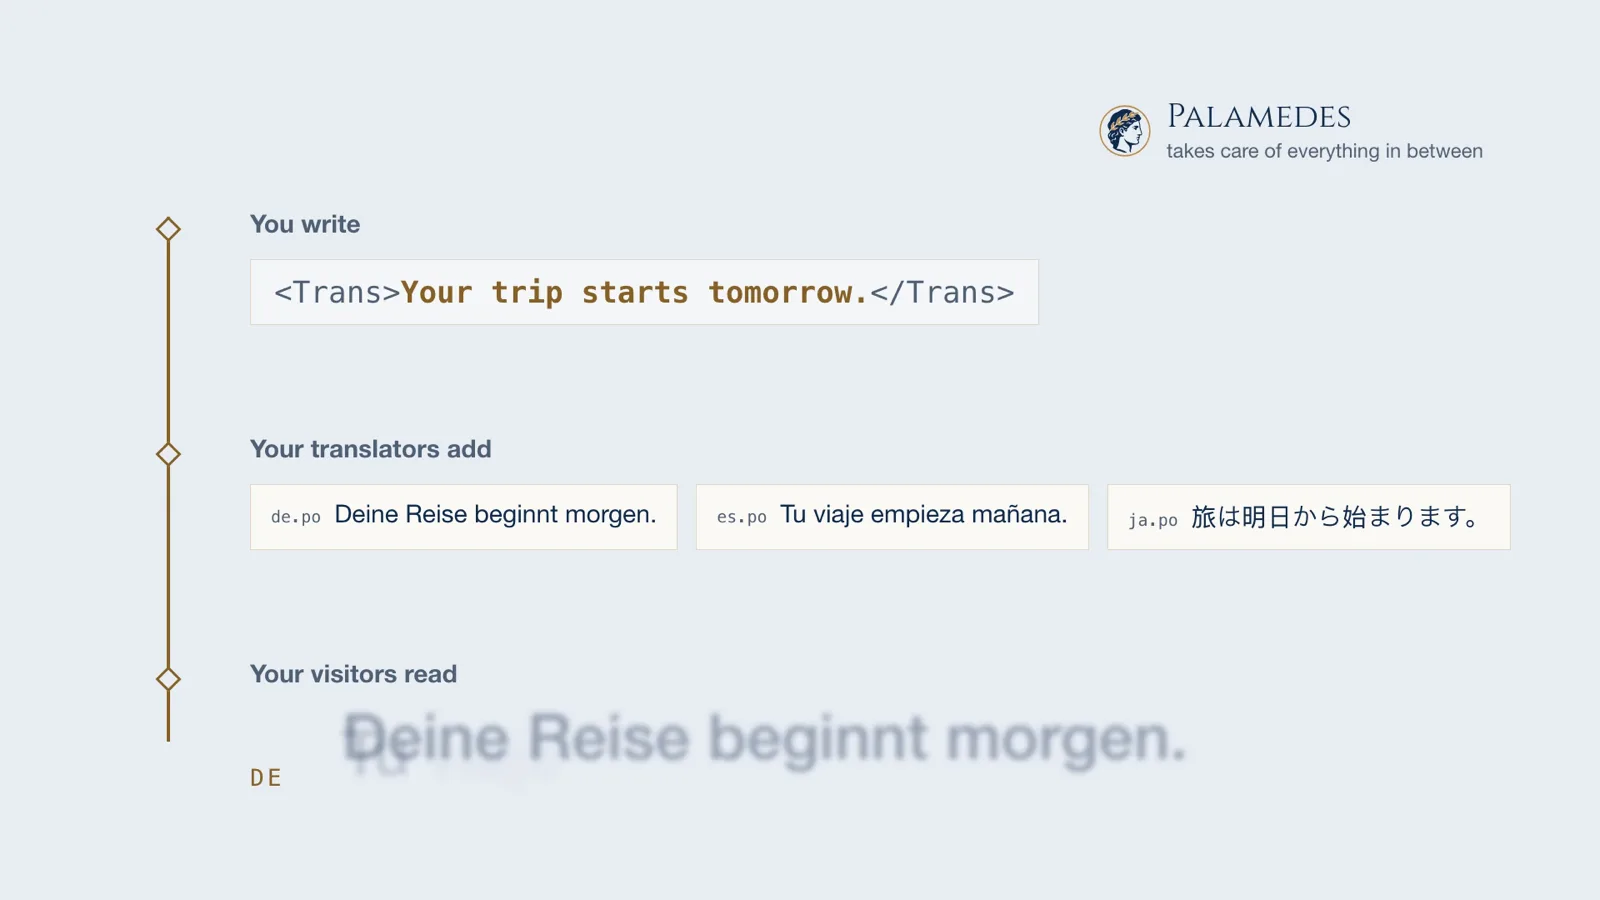
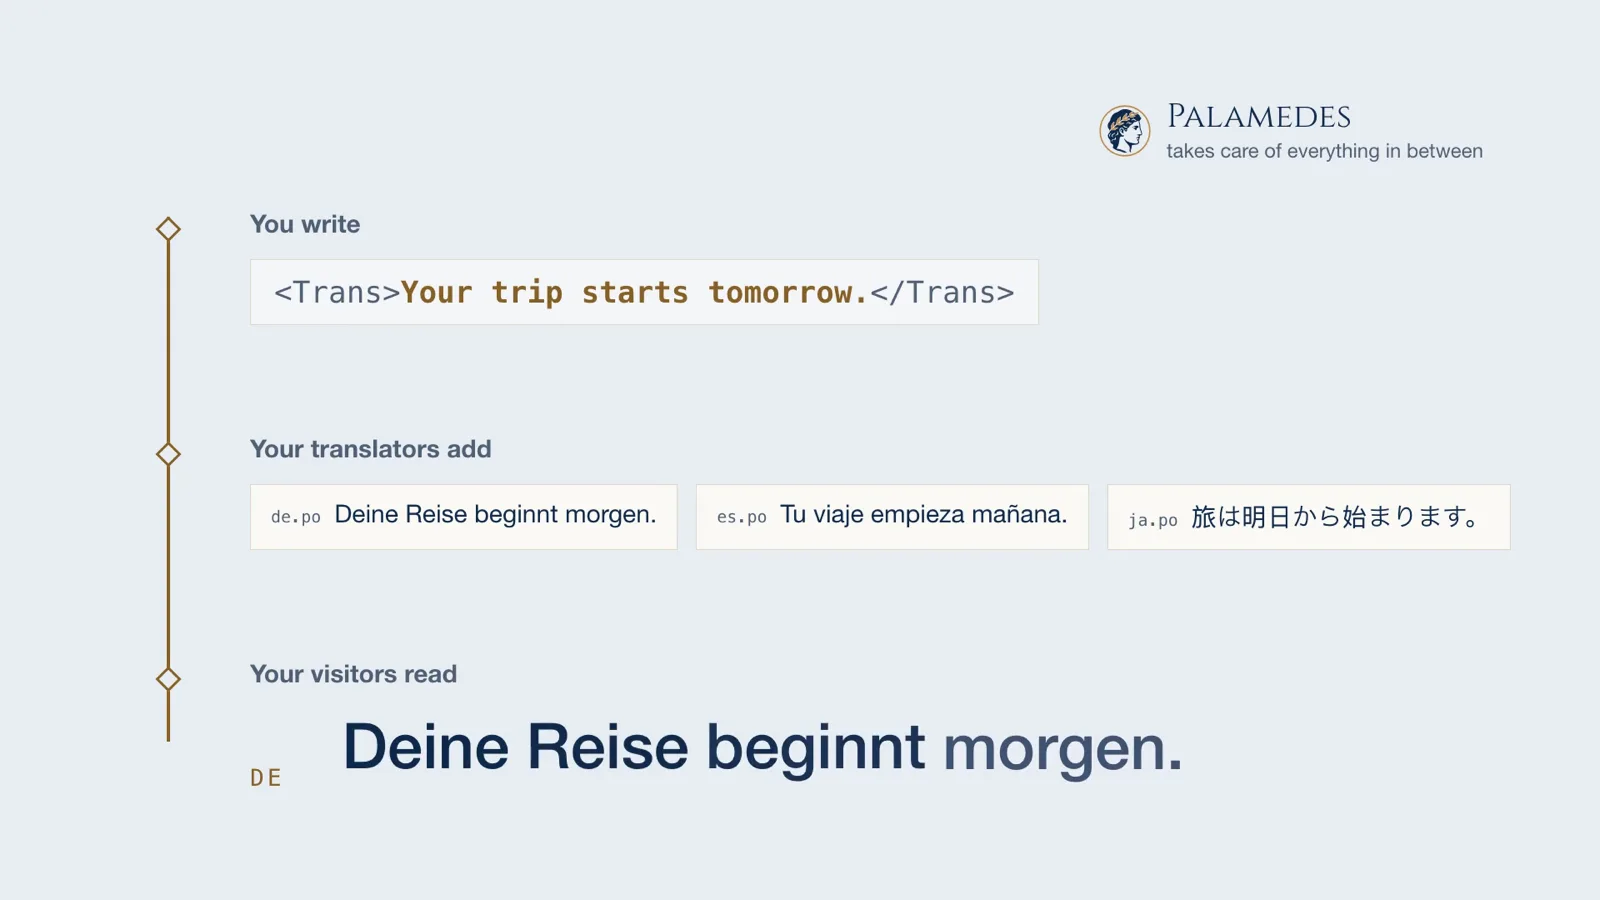
feat(site): follow the 2:40 cut of the homepage film
The captions, poster, transcript, and stated length match the new cut,
which adds a chapter on the problems the usual setup brings.

Changed region(s): [[0.1875, 0.7778, 0.75, 0.8711]]

diff --git a/site/app/data/film.ts b/site/app/data/film.ts
@@ -1,12 +1,12 @@
 /*
- * The homepage film: PalamedesFilm from video/, 2:20. The poster and the
+ * The homepage film: PalamedesFilm from video/, 2:40. The poster and the
  * captions ship with the site; the captions come from video/audio/captions.py.
  * The MP4 is placed by hand until it moves to its streaming host, and only
  * `src` changes then.
  */
 export const FILM = {
   title: "Palamedes in two minutes",
-  duration: "2:20",
+  duration: "2:40",
   src: "/media/palamedes-film.mp4",
   poster: "/media/palamedes-film-poster.webp",
   captions: "/media/palamedes-film.en.vtt",
@@ -22,6 +22,7 @@ export const FILM_CREDITS =
 export const FILM_TRANSCRIPT: readonly string[] = [
   "Your app speaks English. Most of the world doesn't.",
   "Translating an app looks simple, until you spend a minute on the details. One seat, but three seats. Words that change their order. Prices and dates that every language writes its own way. And that's with just two languages.",
+  "And the usual setup makes it harder. You invent a key for every sentence. Every visitor downloads the whole language file. Message syntax gets parsed at runtime, in the browser. Every framework needs its own glue code. And the tools are too slow to run on every save.",
   "That's exactly why we built Palamedes. You just write your sentences, right where they're used. Your translators bring the languages, and Palamedes takes care of everything in between.",
   "Here's how it works. That little Trans tag around your sentence is a macro: it looks like plain JSX to you, and your build rewrites it later.",
   "One command lifts every sentence out of your code and into catalog files your translators already know.",
@@ -29,7 +30,7 @@ export const FILM_TRANSCRIPT: readonly string[] = [
   "Then your build does the clever part: every sentence becomes a short ID, and every translation becomes ready-to-run code.",
   "The catalog is split into one piece per screen, so each screen loads only its own words, in your visitor's language.",
   "And it doesn't stop there. Plurals, numbers and dates, server rendering and server actions, a linter for your messages and an audit that catches every missing translation: it's one complete toolchain, from the first sentence to the last translation.",
-  "The wiring for your framework is already built, for Next.js, React Router, TanStack, Solid, Waku and Vite, and every one of them is tested as a real app.",
+  "The wiring is already built: for React and Solid, for Next.js, TanStack, Waku and Remix, and for Vite. Every one of them is tested as a real app.",
   "And it's seriously fast. Its Rust core works through fifteen hundred files in just seventy-three milliseconds.",
   "Working with a coding agent? Add the Palamedes skill and simply ask it to set up translations for you.",
   "Clear, complete, and fast. For once, you get to pick all three.",
